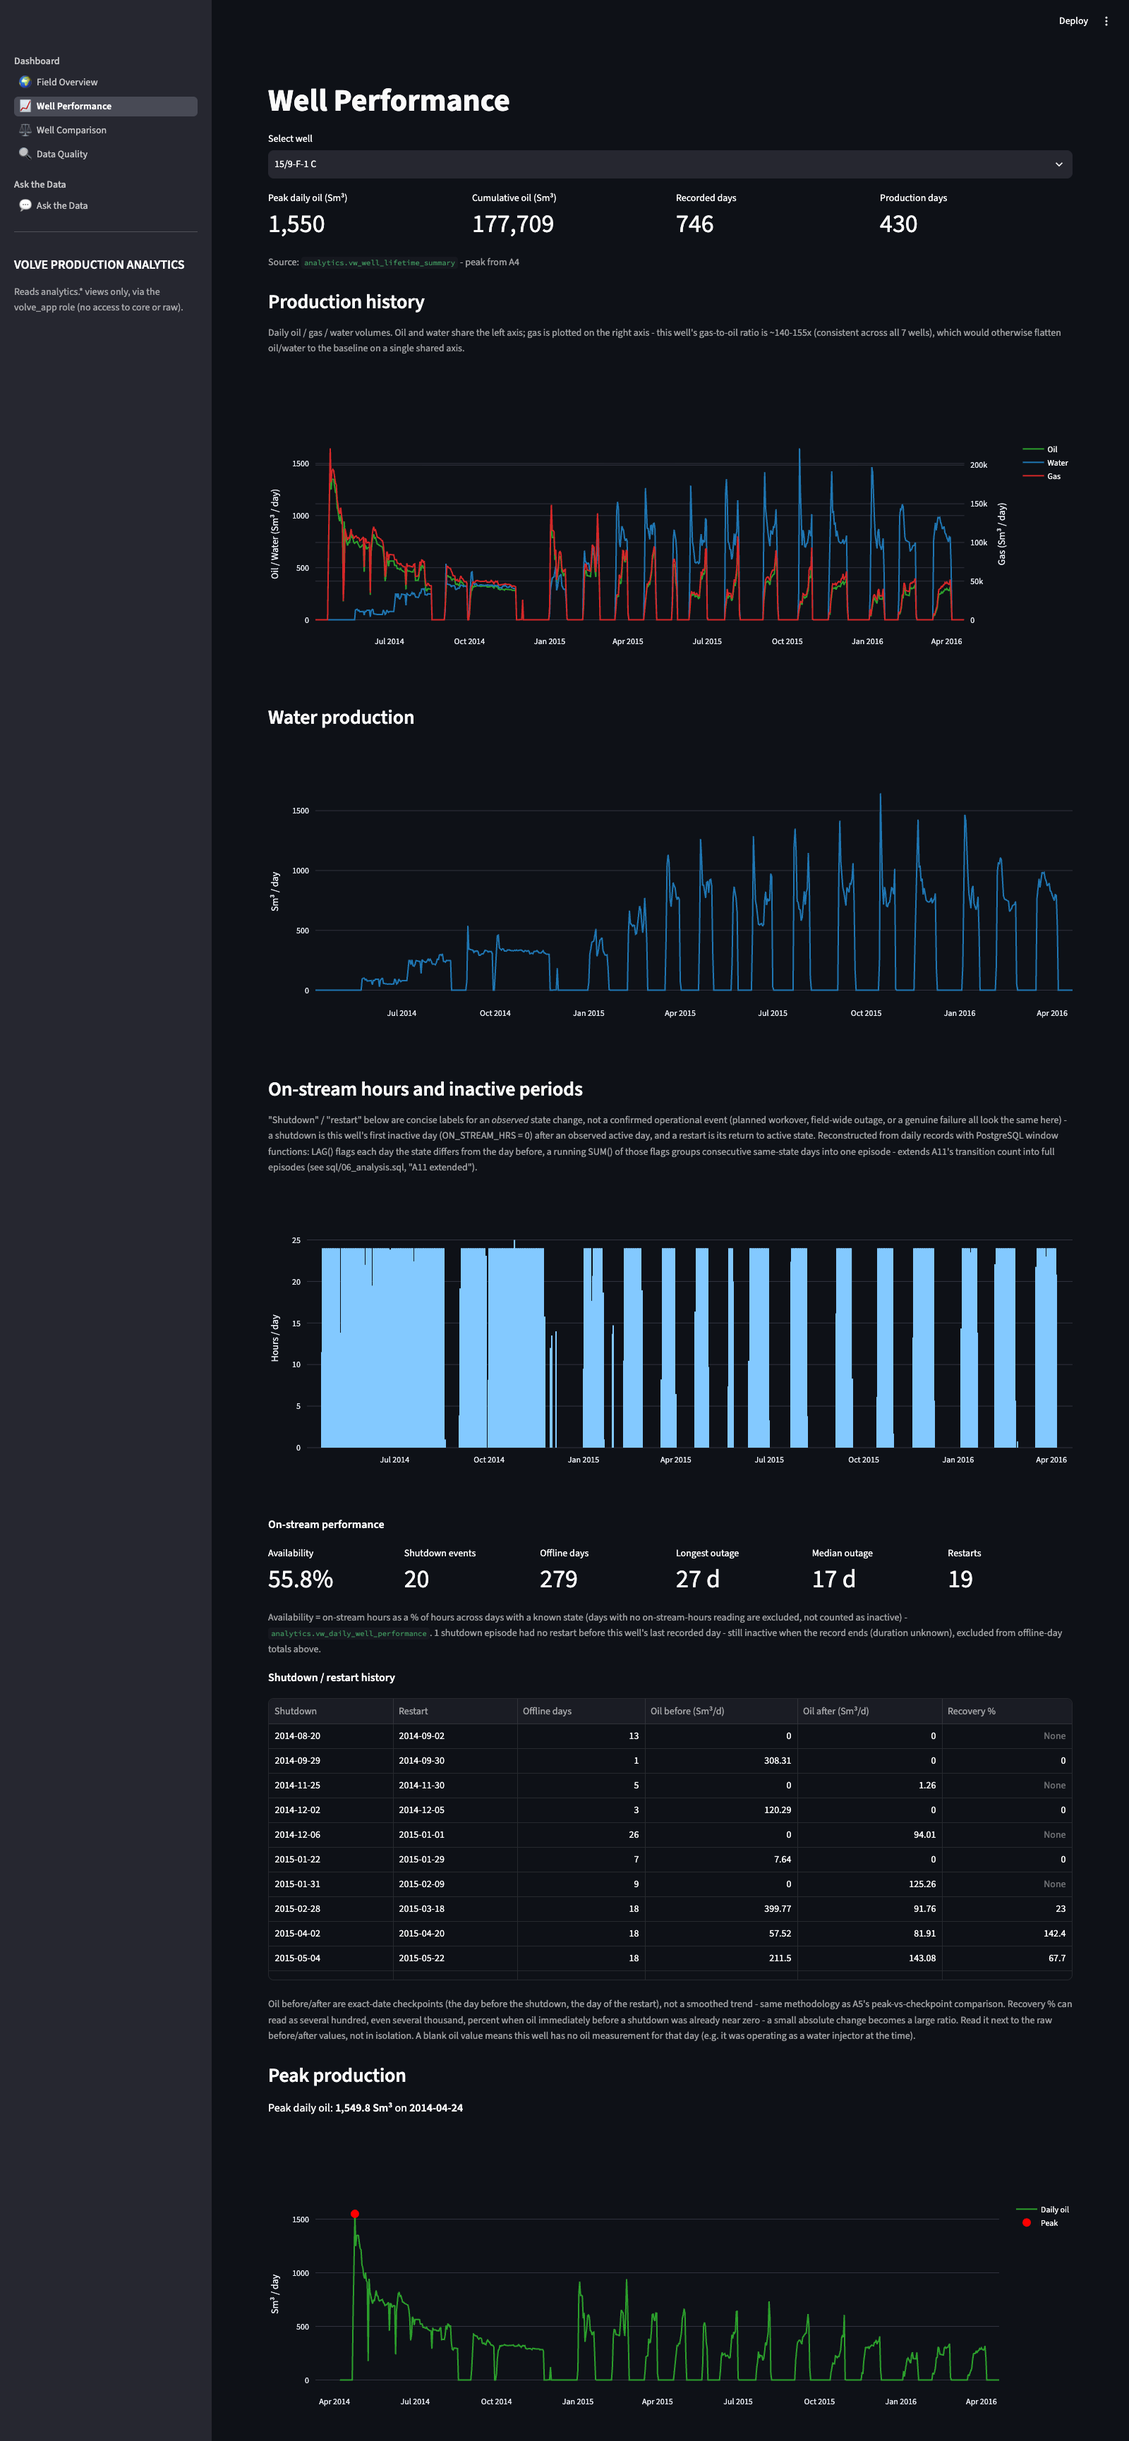
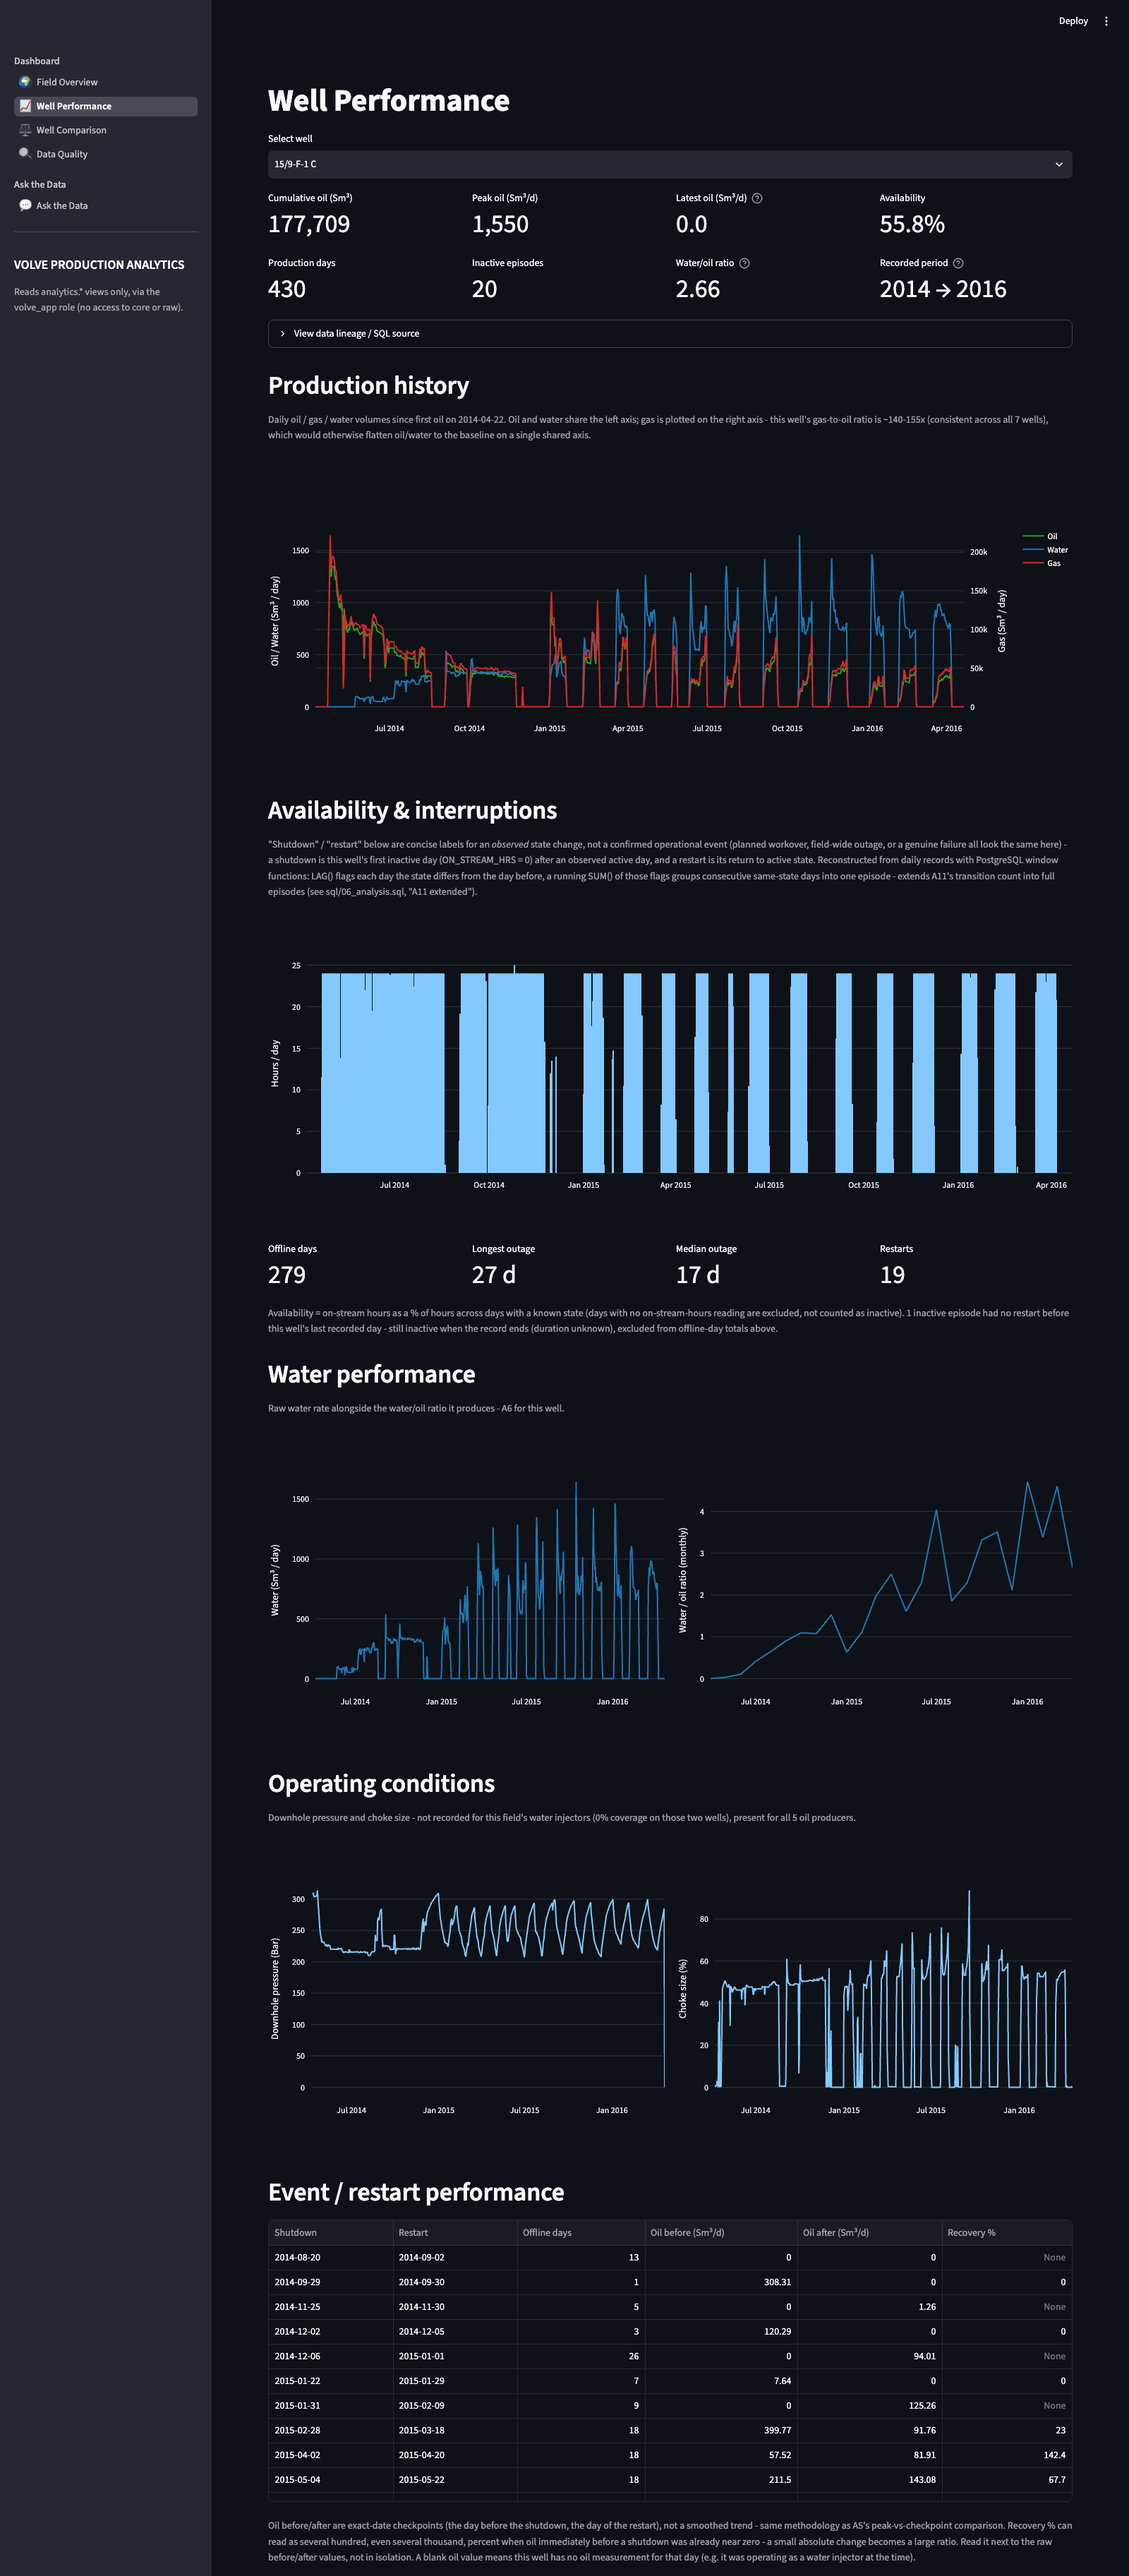
Redesign Well Performance top KPIs and page structure around operating questions
Previous top KPIs (peak/cumulative oil, recorded days, production days)
answered "how much and how long" but not "is this well operating well."
Replaced with an 8-KPI, 2-row grid oriented around three questions: what
has it produced, is it currently operating, and where is it in its
lifecycle - cumulative/peak/latest oil, availability, production days,
inactive episodes, water/oil ratio, recorded period. Data lineage/SQL
source moved into a de-emphasized expander.

Added well_snapshot() (latest recorded oil rate + date + active status,
first oil date) and extended well_daily() with pressure/choke columns.
"Latest oil rate" is paired with its date and active/inactive status,
since a well that ends shut-in reads 0 Sm3/d on its last record - not a
decline to zero.

Reorganized the page into the diagnostic sequence a production engineer
would actually follow: Production History, Availability & Interruptions,
Water Performance (added a per-well water/oil ratio chart), Operating
Conditions (new - downhole pressure and choke, shown only for the 5 oil
producers; the 2 water injectors have ~0% coverage on those columns, kept
hidden rather than shown empty), Event/Restart Performance.

diff --git a/app/views/well_performance.py b/app/views/well_performance.py
@@ -3,6 +3,7 @@ from pathlib import Path
 
 sys.path.insert(0, str(Path(__file__).resolve().parent.parent))
 
+import pandas as pd
 import plotly.express as px
 import plotly.graph_objects as go
 from plotly.subplots import make_subplots
@@ -19,20 +20,70 @@ well_code = int(wells.loc[wells["wellbore_name"] == well_name, "npd_well_bore_co
 
 lifetime = q.well_lifetime(well_code).iloc[0]
 daily = q.well_daily(well_code)
+snapshot = q.well_snapshot(well_code).iloc[0]
+episodes = q.well_downtime_episodes(well_code)
+availability = q.well_availability(well_code)
+monthly_wor = q.water_trends([well_code])
+completed = episodes.dropna(subset=["restart_date"])
+still_down = len(episodes) - len(completed)
 
-c1, c2, c3, c4 = st.columns(4)
-c1.metric("Peak daily oil (Sm³)", f"{lifetime['peak_daily_oil']:,.0f}" if lifetime["peak_daily_oil"] is not None else "n/a")
-c2.metric("Cumulative oil (Sm³)", f"{lifetime['total_oil']:,.0f}" if lifetime["total_oil"] is not None else "n/a")
-c3.metric("Recorded days", f"{lifetime['recorded_days']:,.0f}")
-c4.metric("Production days", f"{lifetime['number_of_production_days']:,.0f}")
-st.caption(f"Source: `{q.VIEW_LIFETIME}`  -  peak from A4")
+latest_wor_row = monthly_wor.dropna(subset=["water_oil_ratio"]).tail(1)
 
-st.subheader("Production history")
+# Orientation, not exhaustive detail: what has this well produced, is it
+# currently operating, and where is it in its life - the diagnostic detail
+# behind each number is one scroll away, in the section it belongs to.
+r1c1, r1c2, r1c3, r1c4 = st.columns(4)
+r1c1.metric("Cumulative oil (Sm³)", f"{lifetime['total_oil']:,.0f}" if lifetime["total_oil"] is not None else "n/a")
+r1c2.metric("Peak oil (Sm³/d)", f"{lifetime['peak_daily_oil']:,.0f}" if lifetime["peak_daily_oil"] is not None else "n/a")
+r1c3.metric(
+    "Latest oil (Sm³/d)",
+    f"{snapshot['latest_oil_rate']:,.1f}" if snapshot["latest_oil_rate"] is not None else "n/a",
+    help=(
+        f"As of {snapshot['latest_record_date'].date()}, this well's most "
+        f"recently recorded day - "
+        + ("active." if snapshot["latest_is_active"] else "inactive on that date, not a decline to zero.")
+    ),
+)
+r1c4.metric("Availability", f"{availability:.1f}%" if availability is not None else "n/a")
+
+r2c1, r2c2, r2c3, r2c4 = st.columns(4)
+r2c1.metric("Production days", f"{lifetime['number_of_production_days']:,.0f}")
+r2c2.metric("Inactive episodes", len(episodes))
+r2c3.metric(
+    "Water/oil ratio",
+    f"{latest_wor_row['water_oil_ratio'].iloc[0]:.2f}" if not latest_wor_row.empty else "n/a",
+    help=(
+        f"Latest calendar month with oil production: {latest_wor_row['month_start'].iloc[0].strftime('%Y-%m')}."
+        if not latest_wor_row.empty
+        else "No month with recorded oil production for this well."
+    ),
+)
+r2c4.metric(
+    "Recorded period",
+    f"{lifetime['first_record_date'].year} → {lifetime['last_record_date'].year}",
+    help=f"{lifetime['first_record_date']} → {lifetime['last_record_date']}",
+)
+
+with st.expander("View data lineage / SQL source"):
+    st.caption(
+        f"`{q.VIEW_LIFETIME}`, `{q.VIEW_DAILY}`, `{q.VIEW_MONTHLY}`  -  "
+        f"peak from A4, water/oil ratio from A6, availability and inactive "
+        f"episodes extend A11 (see sql/06_analysis.sql, \"A11 extended\")."
+    )
+    st.caption(f"Recorded days (including days with no on-stream-hours reading): {lifetime['recorded_days']:,.0f}")
+
+st.header("Production history")
+_first_oil_str = (
+    str(snapshot["first_oil_date"].date())
+    if not pd.isna(snapshot["first_oil_date"])
+    else "n/a (this well never produces oil)"
+)
 st.caption(
-    "Daily oil / gas / water volumes. Oil and water share the left axis; "
-    "gas is plotted on the right axis - this well's gas-to-oil ratio is "
-    "~140-155x (consistent across all 7 wells), which would otherwise "
-    "flatten oil/water to the baseline on a single shared axis."
+    f"Daily oil / gas / water volumes since first oil on {_first_oil_str}. "
+    "Oil and water share the left axis; gas is plotted on the right axis - "
+    "this well's gas-to-oil ratio is ~140-155x (consistent across all 7 "
+    "wells), which would otherwise flatten oil/water to the baseline on a "
+    "single shared axis."
 )
 fig = make_subplots(specs=[[{"secondary_y": True}]])
 fig.add_trace(
@@ -53,11 +104,6 @@ fig.add_trace(
 fig.update_yaxes(title_text="Oil / Water (Sm³ / day)", secondary_y=False)
 fig.update_yaxes(title_text="Gas (Sm³ / day)", secondary_y=True)
 st.plotly_chart(fig, width="stretch")
-
-st.subheader("Water production")
-fig2 = px.line(daily, x="production_date", y="bore_wat_vol", color_discrete_sequence=[c.WATER])
-fig2.update_layout(yaxis_title="Sm³ / day", xaxis_title=None)
-st.plotly_chart(fig2, width="stretch")
 
 has_injection = daily["bore_wi_vol"].astype("float64").gt(0).any()
 if has_injection:
@@ -94,7 +140,7 @@ if has_injection:
     fig2b.update_yaxes(title_text="Water injection (Sm³ / day)", secondary_y=False)
     st.plotly_chart(fig2b, width="stretch")
 
-st.subheader("On-stream hours and inactive periods")
+st.header("Availability & interruptions")
 st.caption(
     "\"Shutdown\" / \"restart\" below are concise labels for an *observed* "
     "state change, not a confirmed operational event (planned workover, "
@@ -111,30 +157,55 @@ fig3 = px.bar(daily, x="production_date", y="on_stream_hrs")
 fig3.update_layout(yaxis_title="Hours / day", xaxis_title=None)
 st.plotly_chart(fig3, width="stretch")
 
-episodes = q.well_downtime_episodes(well_code)
-availability = q.well_availability(well_code)
-completed = episodes.dropna(subset=["restart_date"])
-still_down = len(episodes) - len(completed)
-
-st.markdown("**On-stream performance**")
-k1, k2, k3, k4, k5, k6 = st.columns(6)
-k1.metric("Availability", f"{availability:.1f}%" if availability is not None else "n/a")
-k2.metric("Shutdown events", len(episodes))
-k3.metric("Offline days", f"{completed['offline_days'].sum():,.0f}" if not completed.empty else "0")
-k4.metric("Longest outage", f"{completed['offline_days'].max():,.0f} d" if not completed.empty else "n/a")
-k5.metric("Median outage", f"{completed['offline_days'].median():,.0f} d" if not completed.empty else "n/a")
-k6.metric("Restarts", len(completed))
+ac1, ac2, ac3, ac4 = st.columns(4)
+ac1.metric("Offline days", f"{completed['offline_days'].sum():,.0f}" if not completed.empty else "0")
+ac2.metric("Longest outage", f"{completed['offline_days'].max():,.0f} d" if not completed.empty else "n/a")
+ac3.metric("Median outage", f"{completed['offline_days'].median():,.0f} d" if not completed.empty else "n/a")
+ac4.metric("Restarts", len(completed))
 st.caption(
     "Availability = on-stream hours as a % of hours across days with a "
     "known state (days with no on-stream-hours reading are excluded, not "
-    "counted as inactive)  -  " + f"`{q.VIEW_DAILY}`."
-    + (f" {still_down} shutdown episode had no restart before this well's "
+    "counted as inactive)."
+    + (f" {still_down} inactive episode had no restart before this well's "
        "last recorded day - still inactive when the record ends (duration "
        "unknown), excluded from offline-day totals above."
        if still_down else "")
 )
 
-st.markdown("**Shutdown / restart history**")
+st.header("Water performance")
+st.caption("Raw water rate alongside the water/oil ratio it produces - A6 for this well.")
+wc1, wc2 = st.columns(2)
+with wc1:
+    fig2 = px.line(daily, x="production_date", y="bore_wat_vol", color_discrete_sequence=[c.WATER])
+    fig2.update_layout(yaxis_title="Water (Sm³ / day)", xaxis_title=None)
+    st.plotly_chart(fig2, width="stretch")
+with wc2:
+    if not monthly_wor.empty:
+        fig_wor = px.line(monthly_wor, x="month_start", y="water_oil_ratio", color_discrete_sequence=[c.WATER])
+        fig_wor.update_layout(yaxis_title="Water / oil ratio (monthly)", xaxis_title=None)
+        st.plotly_chart(fig_wor, width="stretch")
+    else:
+        st.caption("No monthly oil/water data for this well.")
+
+has_pressure = daily["avg_downhole_pressure"].notna().any()
+if has_pressure:
+    st.header("Operating conditions")
+    st.caption(
+        "Downhole pressure and choke size - not recorded for this field's "
+        "water injectors (0% coverage on those two wells), present for all "
+        "5 oil producers."
+    )
+    oc1, oc2 = st.columns(2)
+    with oc1:
+        fig_p = px.line(daily, x="production_date", y="avg_downhole_pressure")
+        fig_p.update_layout(yaxis_title="Downhole pressure (Bar)", xaxis_title=None)
+        st.plotly_chart(fig_p, width="stretch")
+    with oc2:
+        fig_ch = px.line(daily, x="production_date", y="avg_choke_size_p")
+        fig_ch.update_layout(yaxis_title="Choke size (%)", xaxis_title=None)
+        st.plotly_chart(fig_ch, width="stretch")
+
+st.header("Event / restart performance")
 if not episodes.empty:
     episodes = episodes.copy()
     episodes["shutdown_date"] = episodes["shutdown_date"].dt.date
@@ -185,5 +256,3 @@ daily_sorted["cumulative_oil"] = daily_sorted["bore_oil_vol"].fillna(0).cumsum()
 fig5 = px.area(daily_sorted, x="production_date", y="cumulative_oil", color_discrete_sequence=[c.OIL])
 fig5.update_layout(yaxis_title="Cumulative Sm³", xaxis_title=None)
 st.plotly_chart(fig5, width="stretch")
-
-st.caption(f"Source: `{q.VIEW_DAILY}`")

diff --git a/app/queries.py b/app/queries.py
@@ -92,12 +92,47 @@ def well_daily(well_code: int) -> pd.DataFrame:
     """analytics.vw_daily_well_performance"""
     df = run_query(f"""
         SELECT production_date, bore_oil_vol, bore_gas_vol, bore_wat_vol,
-               bore_wi_vol, on_stream_hrs, is_active
+               bore_wi_vol, on_stream_hrs, is_active,
+               avg_downhole_pressure, avg_choke_size_p
         FROM {VIEW_DAILY}
         WHERE npd_well_bore_code = %s
         ORDER BY production_date
     """, (well_code,))
     df["production_date"] = pd.to_datetime(df["production_date"])
+    return df
+
+
+def well_snapshot(well_code: int) -> pd.DataFrame:
+    """
+    analytics.vw_daily_well_performance - single-row "as of last record"
+    snapshot: exact-date, no smoothing, same methodology as A5/the episode
+    checkpoints. latest_oil_rate is the well's most recently recorded day,
+    which is 0 for a well that ended shut-in (not a decline to zero) -
+    always paired with latest_record_date and latest_is_active so that
+    distinction is visible, not implied.
+    """
+    df = run_query(f"""
+        WITH latest AS (
+            SELECT production_date, bore_oil_vol, is_active
+            FROM {VIEW_DAILY}
+            WHERE npd_well_bore_code = %s AND on_stream_hrs IS NOT NULL
+            ORDER BY production_date DESC
+            LIMIT 1
+        ),
+        first_oil AS (
+            SELECT MIN(production_date) AS first_oil_date
+            FROM {VIEW_DAILY}
+            WHERE npd_well_bore_code = %s AND bore_oil_vol > 0
+        )
+        SELECT
+            latest.production_date AS latest_record_date,
+            latest.bore_oil_vol AS latest_oil_rate,
+            latest.is_active AS latest_is_active,
+            first_oil.first_oil_date
+        FROM latest, first_oil
+    """, (well_code, well_code))
+    df["latest_record_date"] = pd.to_datetime(df["latest_record_date"])
+    df["first_oil_date"] = pd.to_datetime(df["first_oil_date"])
     return df
 
 
